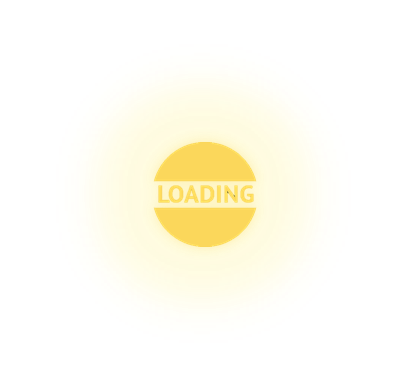
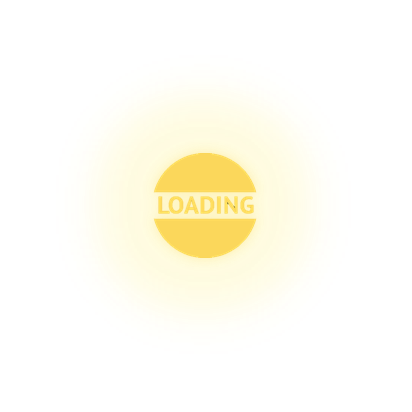
0.0.8

diff --git a/styles/core.css b/styles/core.css
@@ -16,7 +16,7 @@ left: 0;
 width: 100%;
 height: 100%;
 background-position: center center;
-background: url(../images/loading.png) no-repeat center/40%, url(../images/background.png) repeat center/25%;
+background: url(../images/loading.png) no-repeat center/260px, url(../images/background.png) repeat center/150px;
 z-index: 9999999;
 opacity: 1;
 -webkit-transition: opacity .15s;
@@ -42,6 +42,8 @@ body a{
 text-decoration: none;
 -webkit-tap-highlight-color:rgba(0,0,0,0);
 }
+h6,h5{margin: 0;}
+ul, li {margin: 0 auto;}
 .space{
 width: 100%;
 height: 10px;
@@ -412,4 +414,77 @@ margin-top: -8px;
 width: 39px;
 height: 39px;
 }
+}
+
+/*---------------------------------------------*/
+.headSlideBusiness{
+display: block;
+width: 100%;
+height: 300px;
+background: url(/images/noisy-net.png) repeat center/80px, url(/images/business-home.jpg) no-repeat center/cover;
+}
+.headSlideBusiness li{
+color: #fff;
+font-size: 16px;
+line-height: 20px;
+font-weight: normal;
+}
+
+.headSlideBusiness ul {
+list-style: none;
+max-width: 300px;
+padding: 10px 5px;
+margin-right: 0;
+}
+
+.headSlideBusiness ul li:before{
+content: '';
+display: inline-block;
+margin-bottom: -1px;
+padding: 0 10px 0 0;
+height: 14px;
+width: 14px;
+background: url(/images/circle.png) no-repeat;
+background-size: contain;
+background-position: bottom;
+}
+
+.startCourse{
+display: block;
+width: 100%;
+background-color: #333;
+text-align: center;
+padding: 20px 0;
+border-top: 2px solid #444;
+border-bottom: 2px solid #444;
+}
+
+.startCourse h5{
+color: #f7f7f7;
+font-size: 20px;
+padding: 5px;
+line-height: 24px;
+font-weight: normal;
+}
+
+a.whiteButton{
+padding: 10px 20px;
+display: block;
+width: 160px;
+line-height: 24px;
+margin: auto;
+background-color: #f7f7f7;
+border: 2px solid #ccc;
+border-radius: 8px;
+text-transform: uppercase;
+color: #333;
+font-weight: bold;
+margin: 10px auto 0;
+box-shadow: 0 0 8px #000;
+}
+a.whiteButton:active{
+box-shadow: 0 0 2px #000;
+width: 156px;
+line-height: 20px;
+margin: 12px auto 2px;
 }

diff --git a/landing-page.html b/landing-page.html
@@ -11,7 +11,6 @@
 <link href="https://fonts.googleapis.com/css?family=PT+Sans:400,700" rel="stylesheet">
 
 <script type="text/javascript">
-window.onload=function(){autoChk();};
 function autoChk(){
 var status = readCookie("userStatus");
 if(status == '1'){
@@ -94,6 +93,8 @@ function blog(){document.cookie = "userStatus=2;";
 window.location = "../a2.html";}
 function pro(){document.cookie = "userStatus=3;";
 window.location = "../a3.html";}
+    
+window.onload=function(){autoChk();};
 </script>
 
 <style type="text/css">
@@ -121,6 +122,7 @@ color:  #fff;
 background-color: rgba(0,0,0,0.7);
 box-shadow: 0 0 5px 1px rgba(0,0,0,0.7);
 padding: 5px;
+-webkit-transition: opacity 1s .2s ease;
 }
 .overBase{
 max-width: 100%;
@@ -168,7 +170,7 @@ padding: 0 10px;
 </head>
 <body>
 
-<div id="base" class="base" style="opacity: 0;transition: opacity .5s ease;">
+<div id="base" class="base" style="opacity: 0;">
 <p id="one" class="one">Welcome back SPARKY!</p>
 <div class="overBase">
   <p id="two" class="two">My objective is to <span>➜</span></p>

diff --git a/a1.html b/a1.html
@@ -78,6 +78,26 @@ setTimeout(removeLoading, 100);
 <!-----Inner content------->
     
     <div id="innerContent">
+        <div class="headSlideBusiness">
+        <div class="grid">
+            <h6>
+            <ul>
+                <li>Explicitly Created for Businessman</li>
+                <li>Learn To Promote Business Online</li>
+                <li>Completely Free Course</li>
+                <li>Keep Track of Latest DM Updates</li>
+            </ul>
+            </h6>
+        </div>
+        </div>
+        <div class="startCourse">
+        <div class="grid">
+            <div>
+                <h5>Digital Marketing Course for Business Promotion</h5>
+                <a class="whiteButton" href="a1-business/chapter-1.html">Take Course</a>
+            </div>
+        </div>
+        </div>
     </div>
 
 <!------END COntent-------->
